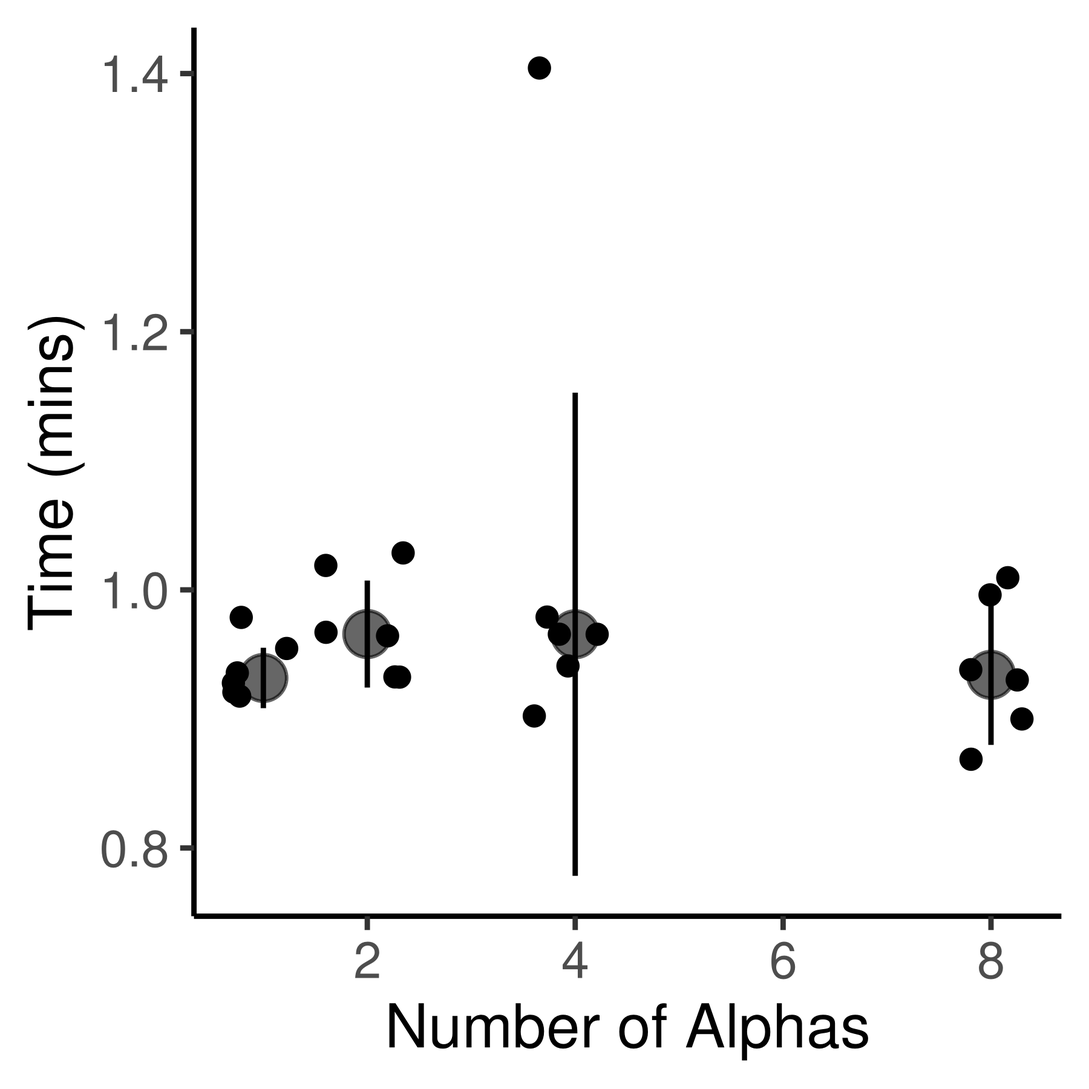
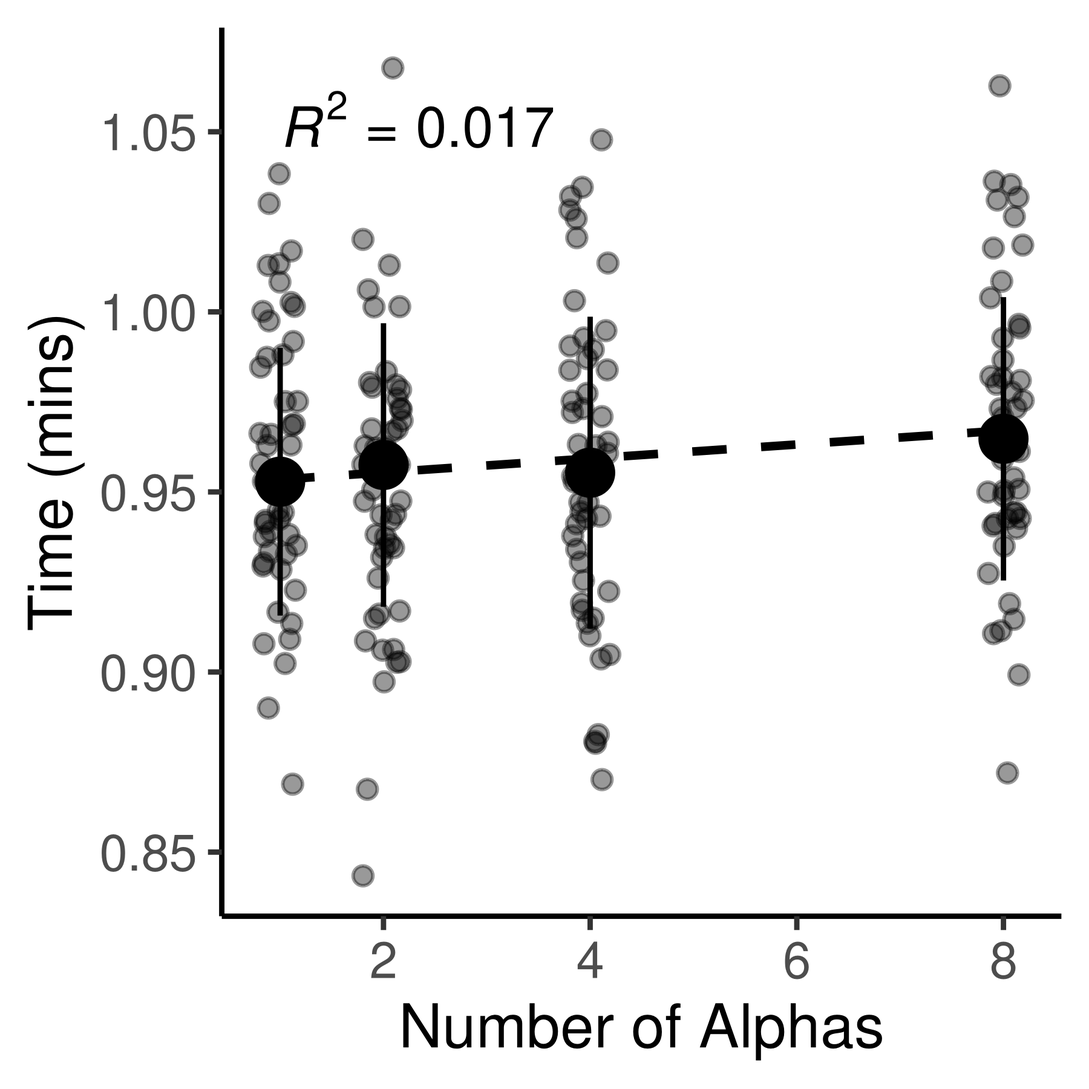
Added timing

diff --git a/zhang_reanalysis/03_Zhang_BetaDiversity.html b/zhang_reanalysis/03_Zhang_BetaDiversity.html
@@ -7,7 +7,7 @@
 <meta name="viewport" content="width=device-width, initial-scale=1.0, user-scalable=yes">
 
 <meta name="author" content="Augustus Pendleton">
-<meta name="dcterms.date" content="2025-09-24">
+<meta name="dcterms.date" content="2025-09-26">
 
 <title>Comparing Samples with Beta Diversity</title>
 <style>
@@ -98,7 +98,7 @@ pre > code.sourceCode > span > a:first-child::before { text-decoration: underlin
     <div>
     <div class="quarto-title-meta-heading">Published</div>
     <div class="quarto-title-meta-contents">
-      <p class="date">September 24, 2025</p>
+      <p class="date">September 26, 2025</p>
     </div>
   </div>
   
@@ -463,7 +463,7 @@ Attaching package: 'extraDistr'</code></pre>
 <span id="cb18-7"><a href="#cb18-7" aria-hidden="true" tabindex="-1"></a>  <span class="at">Alphas =</span> <span class="fu">c</span>(<span class="fu">rep</span>(<span class="dv">1</span>, <span class="dv">13</span>), <span class="dv">2</span>, <span class="dv">4</span>, <span class="dv">8</span>)</span>
 <span id="cb18-8"><a href="#cb18-8" aria-hidden="true" tabindex="-1"></a>)</span>
 <span id="cb18-9"><a href="#cb18-9" aria-hidden="true" tabindex="-1"></a></span>
-<span id="cb18-10"><a href="#cb18-10" aria-hidden="true" tabindex="-1"></a>rep_tests <span class="ot">&lt;-</span> <span class="fu">bind_rows</span>(<span class="fu">replicate</span>(<span class="dv">10</span>, test_conditions, <span class="at">simplify=</span>F))</span>
+<span id="cb18-10"><a href="#cb18-10" aria-hidden="true" tabindex="-1"></a>rep_tests <span class="ot">&lt;-</span> <span class="fu">bind_rows</span>(<span class="fu">replicate</span>(<span class="dv">50</span>, test_conditions, <span class="at">simplify=</span>F))</span>
 <span id="cb18-11"><a href="#cb18-11" aria-hidden="true" tabindex="-1"></a></span>
 <span id="cb18-12"><a href="#cb18-12" aria-hidden="true" tabindex="-1"></a></span>
 <span id="cb18-13"><a href="#cb18-13" aria-hidden="true" tabindex="-1"></a>time_results <span class="ot">&lt;-</span> <span class="fu">vector</span>(<span class="at">mode =</span> <span class="st">"list"</span>, <span class="at">length =</span> <span class="fu">nrow</span>(rep_tests))</span>
@@ -495,7 +495,7 @@ Attaching package: 'extraDistr'</code></pre>
 <span id="cb18-39"><a href="#cb18-39" aria-hidden="true" tabindex="-1"></a><span class="co">#                                 normalize_counts = FALSE,</span></span>
 <span id="cb18-40"><a href="#cb18-40" aria-hidden="true" tabindex="-1"></a><span class="co">#                                 verbose = FALSE),</span></span>
 <span id="cb18-41"><a href="#cb18-41" aria-hidden="true" tabindex="-1"></a><span class="co">#                        times = 2, unit = "seconds")</span></span>
-<span id="cb18-42"><a href="#cb18-42" aria-hidden="true" tabindex="-1"></a><span class="co">#       </span></span>
+<span id="cb18-42"><a href="#cb18-42" aria-hidden="true" tabindex="-1"></a><span class="co"># </span></span>
 <span id="cb18-43"><a href="#cb18-43" aria-hidden="true" tabindex="-1"></a><span class="co">#       wun_time &lt;- microbenchmark(phyloseq::distance(test_physeq, method = "wunifrac"), unit = "seconds")</span></span>
 <span id="cb18-44"><a href="#cb18-44" aria-hidden="true" tabindex="-1"></a><span class="co"># </span></span>
 <span id="cb18-45"><a href="#cb18-45" aria-hidden="true" tabindex="-1"></a><span class="co">#       time_results[[i]] &lt;-</span></span>
@@ -507,71 +507,116 @@ Attaching package: 'extraDistr'</code></pre>
 <span id="cb18-51"><a href="#cb18-51" aria-hidden="true" tabindex="-1"></a><span class="co"># </span></span>
 <span id="cb18-52"><a href="#cb18-52" aria-hidden="true" tabindex="-1"></a><span class="co">#     }</span></span>
 <span id="cb18-53"><a href="#cb18-53" aria-hidden="true" tabindex="-1"></a><span class="co"># </span></span>
-<span id="cb18-54"><a href="#cb18-54" aria-hidden="true" tabindex="-1"></a><span class="co"># save(time_results, file = "time_results.RData")</span></span>
-<span id="cb18-55"><a href="#cb18-55" aria-hidden="true" tabindex="-1"></a></span>
-<span id="cb18-56"><a href="#cb18-56" aria-hidden="true" tabindex="-1"></a><span class="fu">load</span>(<span class="st">"time_results.RData"</span>)</span>
-<span id="cb18-57"><a href="#cb18-57" aria-hidden="true" tabindex="-1"></a></span>
-<span id="cb18-58"><a href="#cb18-58" aria-hidden="true" tabindex="-1"></a>time_res_df <span class="ot">&lt;-</span> </span>
-<span id="cb18-59"><a href="#cb18-59" aria-hidden="true" tabindex="-1"></a>  time_results[<span class="dv">1</span><span class="sc">:</span><span class="dv">96</span>] <span class="sc">%&gt;%</span></span>
-<span id="cb18-60"><a href="#cb18-60" aria-hidden="true" tabindex="-1"></a>  <span class="fu">bind_rows</span>() <span class="sc">%&gt;%</span></span>
-<span id="cb18-61"><a href="#cb18-61" aria-hidden="true" tabindex="-1"></a>  <span class="fu">cbind</span>(rep_tests[<span class="dv">1</span><span class="sc">:</span><span class="dv">96</span>,]) <span class="sc">%&gt;%</span></span>
-<span id="cb18-62"><a href="#cb18-62" aria-hidden="true" tabindex="-1"></a>  <span class="fu">pivot_longer</span>(Bray<span class="sc">:</span>Gunifrac, <span class="at">names_to=</span> <span class="st">"Metric"</span>, <span class="at">values_to =</span> <span class="st">"Time"</span>)</span>
+<span id="cb18-54"><a href="#cb18-54" aria-hidden="true" tabindex="-1"></a></span>
+<span id="cb18-55"><a href="#cb18-55" aria-hidden="true" tabindex="-1"></a><span class="co"># time_res_df &lt;- </span></span>
+<span id="cb18-56"><a href="#cb18-56" aria-hidden="true" tabindex="-1"></a><span class="co">#   time_results %&gt;%</span></span>
+<span id="cb18-57"><a href="#cb18-57" aria-hidden="true" tabindex="-1"></a><span class="co">#   bind_rows() %&gt;%</span></span>
+<span id="cb18-58"><a href="#cb18-58" aria-hidden="true" tabindex="-1"></a><span class="co">#   cbind(rep_tests) %&gt;%</span></span>
+<span id="cb18-59"><a href="#cb18-59" aria-hidden="true" tabindex="-1"></a><span class="co">#   pivot_longer(Bray:Phylo.Wunifrac, names_to= "Metric", values_to = "Time")</span></span>
+<span id="cb18-60"><a href="#cb18-60" aria-hidden="true" tabindex="-1"></a><span class="co"># </span></span>
+<span id="cb18-61"><a href="#cb18-61" aria-hidden="true" tabindex="-1"></a><span class="co"># save(time_res_df, file = "time_res_df.RData")</span></span>
+<span id="cb18-62"><a href="#cb18-62" aria-hidden="true" tabindex="-1"></a><span class="fu">load</span>(<span class="st">"time_res_df.RData"</span>)</span>
 <span id="cb18-63"><a href="#cb18-63" aria-hidden="true" tabindex="-1"></a></span>
-<span id="cb18-64"><a href="#cb18-64" aria-hidden="true" tabindex="-1"></a>time_res_df <span class="sc">%&gt;%</span></span>
-<span id="cb18-65"><a href="#cb18-65" aria-hidden="true" tabindex="-1"></a>  <span class="fu">filter</span>(Samples <span class="sc">==</span> <span class="dv">10</span>, ASVs <span class="sc">==</span> <span class="dv">2000</span>, Metric <span class="sc">==</span> <span class="st">"Gunifrac"</span>) <span class="sc">%&gt;%</span></span>
-<span id="cb18-66"><a href="#cb18-66" aria-hidden="true" tabindex="-1"></a>  <span class="fu">ggplot</span>(<span class="fu">aes</span>(<span class="at">x =</span> Alphas, <span class="at">y =</span> Time<span class="sc">/</span><span class="dv">60</span>)) <span class="sc">+</span> </span>
-<span id="cb18-67"><a href="#cb18-67" aria-hidden="true" tabindex="-1"></a>  <span class="fu">geom_jitter</span>() <span class="sc">+</span> </span>
-<span id="cb18-68"><a href="#cb18-68" aria-hidden="true" tabindex="-1"></a>  <span class="fu">stat_summary</span>(<span class="at">geom =</span> <span class="st">"point"</span>, <span class="at">fun =</span> median, <span class="at">size =</span> <span class="dv">4</span>, <span class="at">alpha =</span> <span class="fl">0.6</span>) <span class="sc">+</span> </span>
-<span id="cb18-69"><a href="#cb18-69" aria-hidden="true" tabindex="-1"></a>  <span class="fu">stat_summary</span>(<span class="at">geom =</span> <span class="st">"errorbar"</span>,</span>
-<span id="cb18-70"><a href="#cb18-70" aria-hidden="true" tabindex="-1"></a>               <span class="at">fun.min =</span> \(x)<span class="fu">median</span>(x)<span class="sc">-</span><span class="fu">sd</span>(x),</span>
-<span id="cb18-71"><a href="#cb18-71" aria-hidden="true" tabindex="-1"></a>               <span class="at">fun.max =</span> \(x)<span class="fu">median</span>(x)<span class="sc">+</span><span class="fu">sd</span>(x),</span>
-<span id="cb18-72"><a href="#cb18-72" aria-hidden="true" tabindex="-1"></a>               <span class="at">width =</span> <span class="dv">0</span>) <span class="sc">+</span> </span>
-<span id="cb18-73"><a href="#cb18-73" aria-hidden="true" tabindex="-1"></a>  <span class="fu">labs</span>(<span class="at">y =</span> <span class="st">"Time (mins)"</span>, <span class="at">x =</span> <span class="st">"Number of Alphas"</span>)</span></code><button title="Copy to Clipboard" class="code-copy-button"><i class="bi"></i></button></pre></div>
+<span id="cb18-64"><a href="#cb18-64" aria-hidden="true" tabindex="-1"></a><span class="fu">library</span>(ggpubr)</span></code><button title="Copy to Clipboard" class="code-copy-button"><i class="bi"></i></button></pre></div>
+<div class="cell-output cell-output-stderr">
+<pre><code>
+Attaching package: 'ggpubr'</code></pre>
+</div>
+<div class="cell-output cell-output-stderr">
+<pre><code>The following object is masked from 'package:dendextend':
+
+    rotate</code></pre>
+</div>
+<div class="sourceCode cell-code" id="cb21"><pre class="sourceCode r code-with-copy"><code class="sourceCode r"><span id="cb21-1"><a href="#cb21-1" aria-hidden="true" tabindex="-1"></a>time_res_df <span class="sc">%&gt;%</span></span>
+<span id="cb21-2"><a href="#cb21-2" aria-hidden="true" tabindex="-1"></a>  <span class="fu">filter</span>(Samples <span class="sc">==</span> <span class="dv">10</span>, ASVs <span class="sc">==</span> <span class="dv">2000</span>, Metric <span class="sc">==</span> <span class="st">"Gunifrac"</span>) <span class="sc">%&gt;%</span></span>
+<span id="cb21-3"><a href="#cb21-3" aria-hidden="true" tabindex="-1"></a>  <span class="fu">ggplot</span>(<span class="fu">aes</span>(<span class="at">x =</span> Alphas, <span class="at">y =</span> Time<span class="sc">/</span><span class="dv">60</span>)) <span class="sc">+</span> </span>
+<span id="cb21-4"><a href="#cb21-4" aria-hidden="true" tabindex="-1"></a>  <span class="fu">geom_jitter</span>(<span class="at">alpha =</span> <span class="fl">0.4</span>, <span class="at">width =</span> <span class="fl">0.2</span>) <span class="sc">+</span> </span>
+<span id="cb21-5"><a href="#cb21-5" aria-hidden="true" tabindex="-1"></a>  <span class="fu">stat_summary</span>(<span class="at">geom =</span> <span class="st">"point"</span>, <span class="at">fun =</span> median, <span class="at">size =</span> <span class="dv">4</span>, <span class="at">alpha =</span> <span class="dv">1</span>) <span class="sc">+</span> </span>
+<span id="cb21-6"><a href="#cb21-6" aria-hidden="true" tabindex="-1"></a>  <span class="fu">stat_summary</span>(<span class="at">geom =</span> <span class="st">"errorbar"</span>,</span>
+<span id="cb21-7"><a href="#cb21-7" aria-hidden="true" tabindex="-1"></a>               <span class="at">fun.min =</span> \(x)<span class="fu">median</span>(x)<span class="sc">-</span><span class="fu">sd</span>(x),</span>
+<span id="cb21-8"><a href="#cb21-8" aria-hidden="true" tabindex="-1"></a>               <span class="at">fun.max =</span> \(x)<span class="fu">median</span>(x)<span class="sc">+</span><span class="fu">sd</span>(x),</span>
+<span id="cb21-9"><a href="#cb21-9" aria-hidden="true" tabindex="-1"></a>               <span class="at">width =</span> <span class="dv">0</span>) <span class="sc">+</span> </span>
+<span id="cb21-10"><a href="#cb21-10" aria-hidden="true" tabindex="-1"></a>  <span class="fu">labs</span>(<span class="at">y =</span> <span class="st">"Time (mins)"</span>, <span class="at">x =</span> <span class="st">"Number of Alphas"</span>) <span class="sc">+</span> </span>
+<span id="cb21-11"><a href="#cb21-11" aria-hidden="true" tabindex="-1"></a>  <span class="fu">geom_smooth</span>(<span class="at">method =</span> <span class="st">"lm"</span>, <span class="at">linetype =</span> <span class="dv">2</span>, <span class="at">linewidth =</span> <span class="fl">0.8</span>, <span class="at">se =</span> <span class="cn">FALSE</span>, <span class="at">color =</span> <span class="st">"black"</span>) <span class="sc">+</span> </span>
+<span id="cb21-12"><a href="#cb21-12" aria-hidden="true" tabindex="-1"></a>  <span class="fu">stat_regline_equation</span>(<span class="fu">aes</span>(<span class="at">label =</span> <span class="fu">after_stat</span>(rr.label)))</span></code><button title="Copy to Clipboard" class="code-copy-button"><i class="bi"></i></button></pre></div>
+<div class="cell-output cell-output-stderr">
+<pre><code>`geom_smooth()` using formula = 'y ~ x'</code></pre>
+</div>
 <div class="cell-output-display">
 <p><img src="03_Zhang_BetaDiversity_files/figure-html/timing-1.png" class="img-fluid" width="900"></p>
 </div>
-<div class="sourceCode cell-code" id="cb19"><pre class="sourceCode r code-with-copy"><code class="sourceCode r"><span id="cb19-1"><a href="#cb19-1" aria-hidden="true" tabindex="-1"></a>time_res_df <span class="sc">%&gt;%</span></span>
-<span id="cb19-2"><a href="#cb19-2" aria-hidden="true" tabindex="-1"></a>  <span class="fu">filter</span>(Alphas <span class="sc">==</span> <span class="dv">1</span>, ASVs <span class="sc">==</span> <span class="dv">2000</span>, Metric <span class="sc">==</span> <span class="st">"Gunifrac"</span>) <span class="sc">%&gt;%</span></span>
-<span id="cb19-3"><a href="#cb19-3" aria-hidden="true" tabindex="-1"></a>  <span class="fu">ggplot</span>(<span class="fu">aes</span>(<span class="at">x =</span> Samples, <span class="at">y =</span> Time<span class="sc">/</span><span class="dv">60</span>)) <span class="sc">+</span> </span>
-<span id="cb19-4"><a href="#cb19-4" aria-hidden="true" tabindex="-1"></a>  <span class="fu">geom_jitter</span>() <span class="sc">+</span> </span>
-<span id="cb19-5"><a href="#cb19-5" aria-hidden="true" tabindex="-1"></a>  <span class="fu">stat_summary</span>(<span class="at">geom =</span> <span class="st">"point"</span>, <span class="at">fun =</span> median, <span class="at">size =</span> <span class="dv">4</span>, <span class="at">alpha =</span> <span class="fl">0.6</span>) <span class="sc">+</span> </span>
-<span id="cb19-6"><a href="#cb19-6" aria-hidden="true" tabindex="-1"></a>  <span class="fu">stat_summary</span>(<span class="at">geom =</span> <span class="st">"errorbar"</span>,</span>
-<span id="cb19-7"><a href="#cb19-7" aria-hidden="true" tabindex="-1"></a>               <span class="at">fun.min =</span> \(x)<span class="fu">median</span>(x)<span class="sc">-</span><span class="fu">sd</span>(x),</span>
-<span id="cb19-8"><a href="#cb19-8" aria-hidden="true" tabindex="-1"></a>               <span class="at">fun.max =</span> \(x)<span class="fu">median</span>(x)<span class="sc">+</span><span class="fu">sd</span>(x),</span>
-<span id="cb19-9"><a href="#cb19-9" aria-hidden="true" tabindex="-1"></a>               <span class="at">width =</span> <span class="dv">0</span>) <span class="sc">+</span> </span>
-<span id="cb19-10"><a href="#cb19-10" aria-hidden="true" tabindex="-1"></a>  <span class="fu">labs</span>(<span class="at">y =</span> <span class="st">"Time (mins)"</span>, <span class="at">x =</span> <span class="st">"Number of Samples"</span>)</span></code><button title="Copy to Clipboard" class="code-copy-button"><i class="bi"></i></button></pre></div>
+<div class="sourceCode cell-code" id="cb23"><pre class="sourceCode r code-with-copy"><code class="sourceCode r"><span id="cb23-1"><a href="#cb23-1" aria-hidden="true" tabindex="-1"></a>time_res_df <span class="sc">%&gt;%</span></span>
+<span id="cb23-2"><a href="#cb23-2" aria-hidden="true" tabindex="-1"></a>  <span class="fu">filter</span>(Alphas <span class="sc">==</span> <span class="dv">1</span>, ASVs <span class="sc">==</span> <span class="dv">2000</span>, Metric <span class="sc">==</span> <span class="st">"Gunifrac"</span>) <span class="sc">%&gt;%</span></span>
+<span id="cb23-3"><a href="#cb23-3" aria-hidden="true" tabindex="-1"></a>  <span class="fu">ggplot</span>(<span class="fu">aes</span>(<span class="at">x =</span> Samples, <span class="at">y =</span> Time<span class="sc">/</span><span class="dv">60</span>)) <span class="sc">+</span> </span>
+<span id="cb23-4"><a href="#cb23-4" aria-hidden="true" tabindex="-1"></a>  <span class="fu">geom_jitter</span>(<span class="at">alpha =</span> <span class="fl">0.4</span>, <span class="at">width =</span> <span class="fl">0.4</span>) <span class="sc">+</span> </span>
+<span id="cb23-5"><a href="#cb23-5" aria-hidden="true" tabindex="-1"></a>  <span class="fu">stat_summary</span>(<span class="at">geom =</span> <span class="st">"point"</span>, <span class="at">fun =</span> median, <span class="at">size =</span> <span class="dv">4</span>, <span class="at">alpha =</span> <span class="dv">1</span>) <span class="sc">+</span> </span>
+<span id="cb23-6"><a href="#cb23-6" aria-hidden="true" tabindex="-1"></a>  <span class="fu">stat_summary</span>(<span class="at">geom =</span> <span class="st">"errorbar"</span>,</span>
+<span id="cb23-7"><a href="#cb23-7" aria-hidden="true" tabindex="-1"></a>               <span class="at">fun.min =</span> \(x)<span class="fu">median</span>(x)<span class="sc">-</span><span class="fu">sd</span>(x),</span>
+<span id="cb23-8"><a href="#cb23-8" aria-hidden="true" tabindex="-1"></a>               <span class="at">fun.max =</span> \(x)<span class="fu">median</span>(x)<span class="sc">+</span><span class="fu">sd</span>(x),</span>
+<span id="cb23-9"><a href="#cb23-9" aria-hidden="true" tabindex="-1"></a>               <span class="at">width =</span> <span class="dv">0</span>) <span class="sc">+</span>  </span>
+<span id="cb23-10"><a href="#cb23-10" aria-hidden="true" tabindex="-1"></a>  <span class="fu">labs</span>(<span class="at">y =</span> <span class="st">"Time (mins)"</span>, <span class="at">x =</span> <span class="st">"Number of Samples"</span>)<span class="sc">+</span> </span>
+<span id="cb23-11"><a href="#cb23-11" aria-hidden="true" tabindex="-1"></a>  <span class="fu">geom_smooth</span>(<span class="at">method =</span> <span class="st">"lm"</span>, <span class="at">linetype =</span> <span class="dv">2</span>, <span class="at">linewidth =</span> <span class="fl">0.8</span>, <span class="at">se =</span> <span class="cn">FALSE</span>, <span class="at">color =</span> <span class="st">"black"</span>) <span class="sc">+</span> </span>
+<span id="cb23-12"><a href="#cb23-12" aria-hidden="true" tabindex="-1"></a>  <span class="fu">stat_regline_equation</span>(<span class="fu">aes</span>(<span class="at">label =</span> <span class="fu">after_stat</span>(rr.label)))</span></code><button title="Copy to Clipboard" class="code-copy-button"><i class="bi"></i></button></pre></div>
+<div class="cell-output cell-output-stderr">
+<pre><code>`geom_smooth()` using formula = 'y ~ x'</code></pre>
+</div>
 <div class="cell-output-display">
 <p><img src="03_Zhang_BetaDiversity_files/figure-html/timing-2.png" class="img-fluid" width="900"></p>
 </div>
-<div class="sourceCode cell-code" id="cb20"><pre class="sourceCode r code-with-copy"><code class="sourceCode r"><span id="cb20-1"><a href="#cb20-1" aria-hidden="true" tabindex="-1"></a>time_res_df <span class="sc">%&gt;%</span></span>
-<span id="cb20-2"><a href="#cb20-2" aria-hidden="true" tabindex="-1"></a>  <span class="fu">filter</span>(Alphas <span class="sc">==</span> <span class="dv">1</span>, Samples <span class="sc">==</span> <span class="dv">10</span>, Metric <span class="sc">==</span> <span class="st">"Gunifrac"</span>) <span class="sc">%&gt;%</span></span>
-<span id="cb20-3"><a href="#cb20-3" aria-hidden="true" tabindex="-1"></a>  <span class="fu">ggplot</span>(<span class="fu">aes</span>(<span class="at">x =</span> ASVs, <span class="at">y =</span> Time<span class="sc">/</span><span class="dv">60</span>)) <span class="sc">+</span> </span>
-<span id="cb20-4"><a href="#cb20-4" aria-hidden="true" tabindex="-1"></a>  <span class="fu">geom_jitter</span>() <span class="sc">+</span> </span>
-<span id="cb20-5"><a href="#cb20-5" aria-hidden="true" tabindex="-1"></a>  <span class="fu">stat_summary</span>(<span class="at">geom =</span> <span class="st">"point"</span>, <span class="at">fun =</span> median, <span class="at">size =</span> <span class="dv">4</span>, <span class="at">alpha =</span> <span class="fl">0.6</span>) <span class="sc">+</span> </span>
-<span id="cb20-6"><a href="#cb20-6" aria-hidden="true" tabindex="-1"></a>  <span class="fu">stat_summary</span>(<span class="at">geom =</span> <span class="st">"errorbar"</span>,</span>
-<span id="cb20-7"><a href="#cb20-7" aria-hidden="true" tabindex="-1"></a>               <span class="at">fun.min =</span> \(x)<span class="fu">median</span>(x)<span class="sc">-</span><span class="fu">sd</span>(x),</span>
-<span id="cb20-8"><a href="#cb20-8" aria-hidden="true" tabindex="-1"></a>               <span class="at">fun.max =</span> \(x)<span class="fu">median</span>(x)<span class="sc">+</span><span class="fu">sd</span>(x),</span>
-<span id="cb20-9"><a href="#cb20-9" aria-hidden="true" tabindex="-1"></a>               <span class="at">width =</span> <span class="dv">0</span>) <span class="sc">+</span> </span>
-<span id="cb20-10"><a href="#cb20-10" aria-hidden="true" tabindex="-1"></a>  <span class="fu">labs</span>(<span class="at">y =</span> <span class="st">"Time (mins)"</span>, <span class="at">x =</span> <span class="st">"Number of ASVs"</span>)</span></code><button title="Copy to Clipboard" class="code-copy-button"><i class="bi"></i></button></pre></div>
+<div class="sourceCode cell-code" id="cb25"><pre class="sourceCode r code-with-copy"><code class="sourceCode r"><span id="cb25-1"><a href="#cb25-1" aria-hidden="true" tabindex="-1"></a>time_res_df <span class="sc">%&gt;%</span></span>
+<span id="cb25-2"><a href="#cb25-2" aria-hidden="true" tabindex="-1"></a>  <span class="fu">filter</span>(Alphas <span class="sc">==</span> <span class="dv">1</span>, Samples <span class="sc">==</span> <span class="dv">10</span>, Metric <span class="sc">==</span> <span class="st">"Gunifrac"</span>) <span class="sc">%&gt;%</span></span>
+<span id="cb25-3"><a href="#cb25-3" aria-hidden="true" tabindex="-1"></a>  <span class="fu">ggplot</span>(<span class="fu">aes</span>(<span class="at">x =</span> ASVs<span class="sc">/</span><span class="dv">1000</span>, <span class="at">y =</span> Time<span class="sc">/</span><span class="dv">60</span>)) <span class="sc">+</span> </span>
+<span id="cb25-4"><a href="#cb25-4" aria-hidden="true" tabindex="-1"></a>  <span class="fu">geom_jitter</span>(<span class="at">alpha =</span> <span class="fl">0.4</span>, <span class="at">width =</span> <span class="fl">0.3</span>) <span class="sc">+</span> </span>
+<span id="cb25-5"><a href="#cb25-5" aria-hidden="true" tabindex="-1"></a>  <span class="fu">stat_summary</span>(<span class="at">geom =</span> <span class="st">"point"</span>, <span class="at">fun =</span> median, <span class="at">size =</span> <span class="dv">4</span>, <span class="at">alpha =</span> <span class="dv">1</span>) <span class="sc">+</span> </span>
+<span id="cb25-6"><a href="#cb25-6" aria-hidden="true" tabindex="-1"></a>  <span class="fu">stat_summary</span>(<span class="at">geom =</span> <span class="st">"errorbar"</span>,</span>
+<span id="cb25-7"><a href="#cb25-7" aria-hidden="true" tabindex="-1"></a>               <span class="at">fun.min =</span> \(x)<span class="fu">median</span>(x)<span class="sc">-</span><span class="fu">sd</span>(x),</span>
+<span id="cb25-8"><a href="#cb25-8" aria-hidden="true" tabindex="-1"></a>               <span class="at">fun.max =</span> \(x)<span class="fu">median</span>(x)<span class="sc">+</span><span class="fu">sd</span>(x),</span>
+<span id="cb25-9"><a href="#cb25-9" aria-hidden="true" tabindex="-1"></a>               <span class="at">width =</span> <span class="dv">0</span>) <span class="sc">+</span>  </span>
+<span id="cb25-10"><a href="#cb25-10" aria-hidden="true" tabindex="-1"></a>  <span class="fu">labs</span>(<span class="at">y =</span> <span class="st">"Time (mins)"</span>, <span class="at">x =</span> <span class="st">"ASVs (thouands)"</span>)<span class="sc">+</span> </span>
+<span id="cb25-11"><a href="#cb25-11" aria-hidden="true" tabindex="-1"></a>  <span class="fu">geom_smooth</span>(<span class="at">method =</span> <span class="st">"lm"</span>, <span class="at">linetype =</span> <span class="dv">2</span>, <span class="at">linewidth =</span> <span class="fl">0.8</span>, <span class="at">se =</span> <span class="cn">FALSE</span>, <span class="at">color =</span> <span class="st">"black"</span>) <span class="sc">+</span> </span>
+<span id="cb25-12"><a href="#cb25-12" aria-hidden="true" tabindex="-1"></a>  <span class="fu">stat_regline_equation</span>() <span class="sc">+</span> </span>
+<span id="cb25-13"><a href="#cb25-13" aria-hidden="true" tabindex="-1"></a>  <span class="fu">stat_regline_equation</span>(<span class="fu">aes</span>(<span class="at">label =</span> <span class="fu">after_stat</span>(rr.label)),</span>
+<span id="cb25-14"><a href="#cb25-14" aria-hidden="true" tabindex="-1"></a>                        <span class="at">label.y =</span> <span class="dv">6</span>)</span></code><button title="Copy to Clipboard" class="code-copy-button"><i class="bi"></i></button></pre></div>
+<div class="cell-output cell-output-stderr">
+<pre><code>`geom_smooth()` using formula = 'y ~ x'</code></pre>
+</div>
 <div class="cell-output-display">
 <p><img src="03_Zhang_BetaDiversity_files/figure-html/timing-3.png" class="img-fluid" width="900"></p>
 </div>
-<div class="sourceCode cell-code" id="cb21"><pre class="sourceCode r code-with-copy"><code class="sourceCode r"><span id="cb21-1"><a href="#cb21-1" aria-hidden="true" tabindex="-1"></a>time_res_df <span class="sc">%&gt;%</span></span>
-<span id="cb21-2"><a href="#cb21-2" aria-hidden="true" tabindex="-1"></a>  <span class="fu">mutate</span>(<span class="at">id =</span> <span class="fu">rep</span>(<span class="fu">c</span>(<span class="dv">1</span><span class="sc">:</span><span class="dv">6</span>), <span class="at">each =</span> <span class="dv">32</span>)) <span class="sc">%&gt;%</span></span>
-<span id="cb21-3"><a href="#cb21-3" aria-hidden="true" tabindex="-1"></a>  <span class="fu">pivot_wider</span>(<span class="at">names_from =</span> Metric, <span class="at">values_from =</span> Time) <span class="sc">%&gt;%</span></span>
-<span id="cb21-4"><a href="#cb21-4" aria-hidden="true" tabindex="-1"></a>  <span class="fu">mutate</span>(<span class="at">Diff =</span> Gunifrac <span class="sc">-</span> Bray,</span>
-<span id="cb21-5"><a href="#cb21-5" aria-hidden="true" tabindex="-1"></a>         <span class="at">Diff_Perc =</span> Gunifrac<span class="sc">/</span>Bray) <span class="sc">%&gt;%</span></span>
-<span id="cb21-6"><a href="#cb21-6" aria-hidden="true" tabindex="-1"></a>  <span class="fu">summarize</span>(<span class="at">Median_Diff =</span> <span class="fu">median</span>(Diff),</span>
-<span id="cb21-7"><a href="#cb21-7" aria-hidden="true" tabindex="-1"></a>            <span class="at">Max_Diff =</span> <span class="fu">max</span>(Diff),</span>
-<span id="cb21-8"><a href="#cb21-8" aria-hidden="true" tabindex="-1"></a>            <span class="at">Median_DiffX =</span> <span class="fu">median</span>(Diff_Perc),</span>
-<span id="cb21-9"><a href="#cb21-9" aria-hidden="true" tabindex="-1"></a>            <span class="at">Max_DiffX =</span> <span class="fu">max</span>(Diff_Perc),</span>
-<span id="cb21-10"><a href="#cb21-10" aria-hidden="true" tabindex="-1"></a>            <span class="at">Median_Bray =</span> <span class="fu">median</span>(Bray),</span>
-<span id="cb21-11"><a href="#cb21-11" aria-hidden="true" tabindex="-1"></a>            <span class="at">Median_Gunifrac =</span> <span class="fu">median</span>(Gunifrac))</span></code><button title="Copy to Clipboard" class="code-copy-button"><i class="bi"></i></button></pre></div>
+</div>
+<div class="cell">
+<div class="sourceCode cell-code" id="cb27"><pre class="sourceCode r code-with-copy"><code class="sourceCode r"><span id="cb27-1"><a href="#cb27-1" aria-hidden="true" tabindex="-1"></a>time_res_df <span class="sc">%&gt;%</span></span>
+<span id="cb27-2"><a href="#cb27-2" aria-hidden="true" tabindex="-1"></a>  <span class="fu">filter</span>(Alphas <span class="sc">==</span> <span class="dv">1</span>, Samples <span class="sc">==</span> <span class="dv">10</span>) <span class="sc">%&gt;%</span></span>
+<span id="cb27-3"><a href="#cb27-3" aria-hidden="true" tabindex="-1"></a>  <span class="fu">ggplot</span>(<span class="fu">aes</span>(<span class="at">x =</span> ASVs<span class="sc">/</span><span class="dv">1000</span>, <span class="at">y=</span> Time<span class="sc">/</span><span class="dv">60</span>, <span class="at">color =</span> Metric)) <span class="sc">+</span> </span>
+<span id="cb27-4"><a href="#cb27-4" aria-hidden="true" tabindex="-1"></a>  <span class="fu">stat_summary</span>(<span class="at">geom =</span> <span class="st">"line"</span>, <span class="at">fun =</span> median) <span class="sc">+</span> </span>
+<span id="cb27-5"><a href="#cb27-5" aria-hidden="true" tabindex="-1"></a>  <span class="fu">stat_summary</span>(<span class="at">geom =</span> <span class="st">"errorbar"</span>,</span>
+<span id="cb27-6"><a href="#cb27-6" aria-hidden="true" tabindex="-1"></a>               <span class="at">fun.min =</span> \(x)<span class="fu">median</span>(x)<span class="sc">-</span><span class="fu">sd</span>(x),</span>
+<span id="cb27-7"><a href="#cb27-7" aria-hidden="true" tabindex="-1"></a>               <span class="at">fun.max =</span> \(x)<span class="fu">median</span>(x)<span class="sc">+</span><span class="fu">sd</span>(x),</span>
+<span id="cb27-8"><a href="#cb27-8" aria-hidden="true" tabindex="-1"></a>               <span class="at">width =</span> <span class="dv">0</span>) <span class="sc">+</span>  </span>
+<span id="cb27-9"><a href="#cb27-9" aria-hidden="true" tabindex="-1"></a>  <span class="fu">scale_y_log10</span>(<span class="at">labels =</span> scales<span class="sc">::</span><span class="fu">label_comma</span>()) <span class="sc">+</span> </span>
+<span id="cb27-10"><a href="#cb27-10" aria-hidden="true" tabindex="-1"></a>  <span class="fu">scale_color_manual</span>(<span class="at">values =</span> <span class="fu">c</span>(<span class="st">"#196689"</span>, <span class="st">"#B6AA0D"</span>, <span class="st">"darkred"</span>),</span>
+<span id="cb27-11"><a href="#cb27-11" aria-hidden="true" tabindex="-1"></a>                     <span class="at">breaks =</span> <span class="fu">c</span>(<span class="st">"Gunifrac"</span>, <span class="st">"Bray"</span>, <span class="st">"Phylo.Wunifrac"</span>),</span>
+<span id="cb27-12"><a href="#cb27-12" aria-hidden="true" tabindex="-1"></a>                     <span class="at">labels =</span> <span class="fu">c</span>( <span class="st">"GUnifrac"</span>, <span class="st">"Bray-Curtis (vegan)"</span>,<span class="st">"Fast Unifrac (phyloseq)"</span>)) <span class="sc">+</span> </span>
+<span id="cb27-13"><a href="#cb27-13" aria-hidden="true" tabindex="-1"></a>  <span class="fu">labs</span>(<span class="at">y =</span> <span class="st">"Time (mins)"</span>, <span class="at">x =</span> <span class="st">"ASVs (thousands)"</span>, <span class="at">color =</span> <span class="st">""</span>) <span class="sc">+</span></span>
+<span id="cb27-14"><a href="#cb27-14" aria-hidden="true" tabindex="-1"></a>  <span class="fu">theme</span>(<span class="at">legend.box.background =</span> <span class="fu">element_rect</span>(<span class="at">fill =</span> <span class="cn">NA</span>,</span>
+<span id="cb27-15"><a href="#cb27-15" aria-hidden="true" tabindex="-1"></a>                                             <span class="at">color =</span> <span class="cn">NA</span>),</span>
+<span id="cb27-16"><a href="#cb27-16" aria-hidden="true" tabindex="-1"></a>        <span class="at">legend.position =</span> <span class="st">"inside"</span>,</span>
+<span id="cb27-17"><a href="#cb27-17" aria-hidden="true" tabindex="-1"></a>        <span class="at">legend.position.inside =</span> <span class="fu">c</span>(<span class="fl">0.7</span>, <span class="fl">0.16</span>))</span></code><button title="Copy to Clipboard" class="code-copy-button"><i class="bi"></i></button></pre></div>
+<div class="cell-output-display">
+<p><img src="03_Zhang_BetaDiversity_files/figure-html/compare-methods-1.png" class="img-fluid" width="1200"></p>
+</div>
+<div class="sourceCode cell-code" id="cb28"><pre class="sourceCode r code-with-copy"><code class="sourceCode r"><span id="cb28-1"><a href="#cb28-1" aria-hidden="true" tabindex="-1"></a>time_res_df <span class="sc">%&gt;%</span></span>
+<span id="cb28-2"><a href="#cb28-2" aria-hidden="true" tabindex="-1"></a>  <span class="fu">mutate</span>(<span class="at">id =</span> <span class="fu">rep</span>(<span class="fu">c</span>(<span class="dv">1</span><span class="sc">:</span><span class="dv">50</span>), <span class="at">each =</span> <span class="dv">48</span>)) <span class="sc">%&gt;%</span></span>
+<span id="cb28-3"><a href="#cb28-3" aria-hidden="true" tabindex="-1"></a>  <span class="fu">pivot_wider</span>(<span class="at">names_from =</span> Metric, <span class="at">values_from =</span> Time) <span class="sc">%&gt;%</span></span>
+<span id="cb28-4"><a href="#cb28-4" aria-hidden="true" tabindex="-1"></a>  <span class="fu">mutate</span>(<span class="at">Diff_Bray =</span> Gunifrac<span class="sc">/</span>Bray,</span>
+<span id="cb28-5"><a href="#cb28-5" aria-hidden="true" tabindex="-1"></a>         <span class="at">Diff_PW =</span> Gunifrac<span class="sc">/</span>Phylo.Wunifrac) <span class="sc">%&gt;%</span></span>
+<span id="cb28-6"><a href="#cb28-6" aria-hidden="true" tabindex="-1"></a>  <span class="fu">summarize</span>(<span class="at">Median_Diff_Bray =</span> <span class="fu">median</span>(Diff_Bray),</span>
+<span id="cb28-7"><a href="#cb28-7" aria-hidden="true" tabindex="-1"></a>            <span class="at">Median_Diff_PW =</span> <span class="fu">median</span>(Diff_PW))</span></code><button title="Copy to Clipboard" class="code-copy-button"><i class="bi"></i></button></pre></div>
 <div class="cell-output cell-output-stdout">
-<pre><code># A tibble: 1 × 6
-  Median_Diff Max_Diff Median_DiffX Max_DiffX Median_Bray Median_Gunifrac
-        &lt;dbl&gt;    &lt;dbl&gt;        &lt;dbl&gt;     &lt;dbl&gt;       &lt;dbl&gt;           &lt;dbl&gt;
-1        55.8     436.        1896.     4990.      0.0292            55.9</code></pre>
+<pre><code># A tibble: 1 × 2
+  Median_Diff_Bray Median_Diff_PW
+             &lt;dbl&gt;          &lt;dbl&gt;
+1            1911.          1383.</code></pre>
 </div>
 </div>
 </section>
